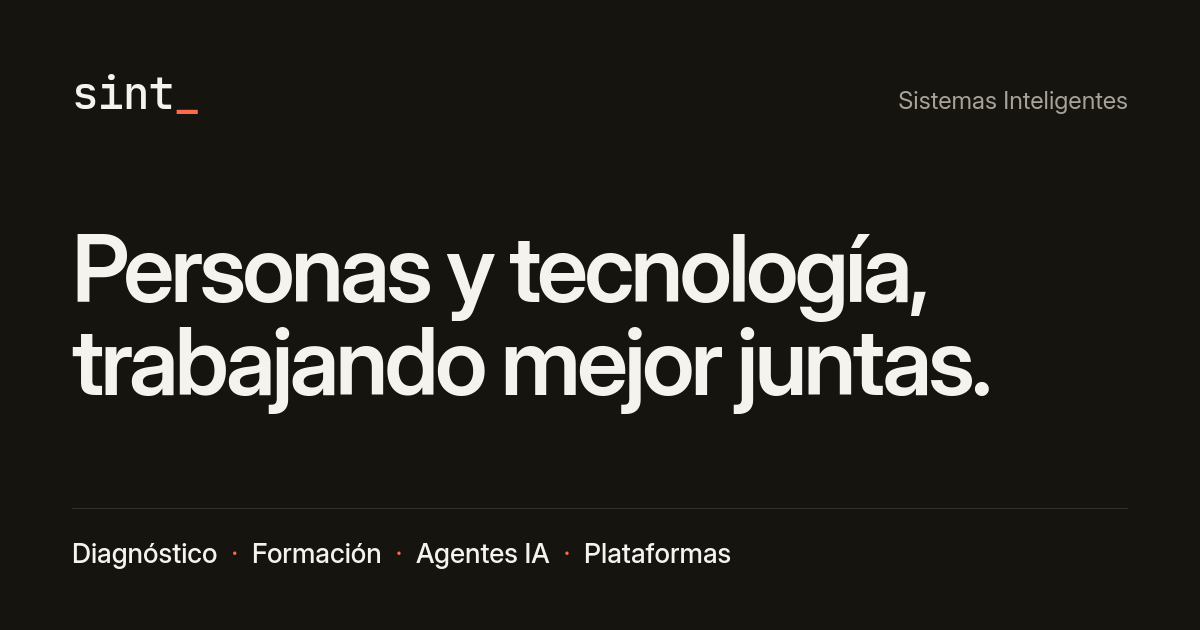
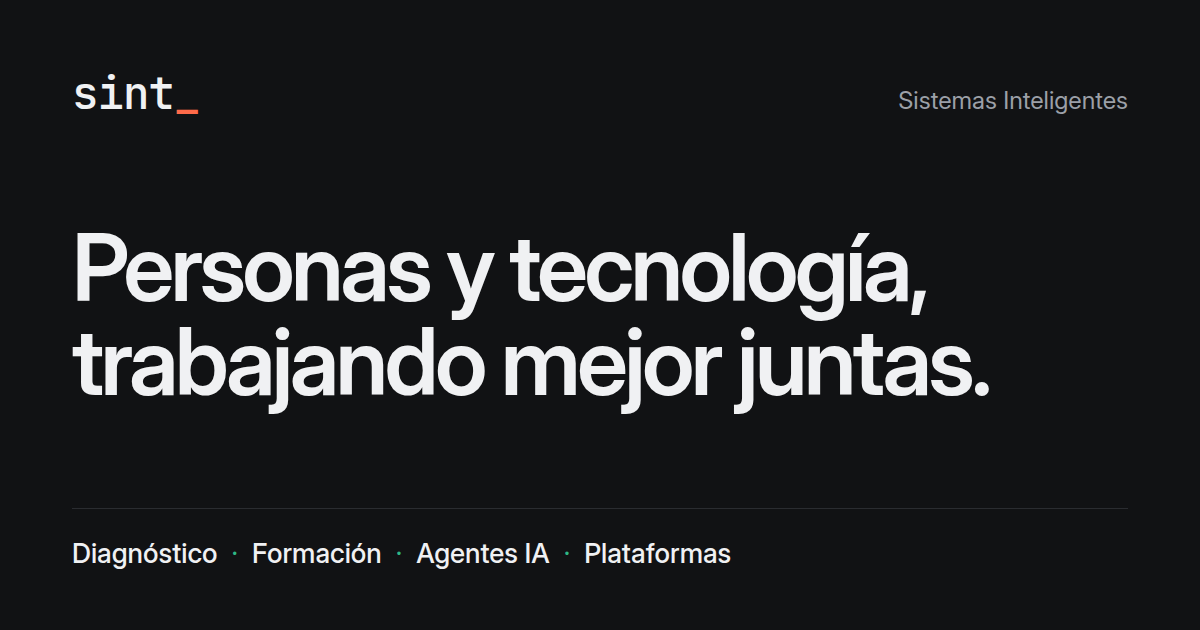
feat(seo): imagen para redes e íconos con la paleta C

diff --git a/specs/sint-v4/referencia/og.html b/specs/sint-v4/referencia/og.html
@@ -3,6 +3,7 @@
 <head>
 <meta charset="utf-8">
 <title>Imagen para redes · sint.cl v4</title>
+<!-- Paleta C (11 de noviembre de 2026): tinta #111214, puntos en verde Sint, naranja solo en el guion del logo. -->
 <!--
   Fuente de public/og-image.png (1200 x 630). Para regenerarla:
     firefox --headless --no-remote --profile "$(mktemp -d)" --window-size=1200,630 \
@@ -15,18 +16,18 @@
   body {
     display: flex; flex-direction: column; justify-content: space-between;
     padding: 64px 72px 60px;
-    background: #16140F; color: #F5F3EE;
+    background: #111214; color: #F0F1F3;
     font-family: "Inter", system-ui, sans-serif;
     -webkit-font-smoothing: antialiased;
   }
   .top { display: flex; align-items: baseline; justify-content: space-between; }
   .logo { font-family: "JetBrains Mono", monospace; font-weight: 500; font-size: 44px; letter-spacing: -0.02em; }
   .logo span { color: #FF6B4A; }
-  .name { font-size: 24px; color: #A8A39A; }
+  .name { font-size: 24px; color: #9CA0A8; }
   h1 { font-size: 92px; line-height: 1.02; font-weight: 600; letter-spacing: -0.04em; max-width: 1000px; }
-  .lines { display: flex; gap: 14px; border-top: 1px solid #34312B; padding-top: 28px; font-size: 27px; color: #A8A39A; }
-  .lines b { font-weight: 500; color: #F5F3EE; }
-  .lines i { font-style: normal; color: #FF6B4A; }
+  .lines { display: flex; gap: 14px; border-top: 1px solid #2A2C30; padding-top: 28px; font-size: 27px; color: #9CA0A8; }
+  .lines b { font-weight: 500; color: #F0F1F3; }
+  .lines i { font-style: normal; color: #2EB886; }
 </style>
 </head>
 <body>

diff --git a/AGENTS.md b/AGENTS.md
@@ -130,7 +130,7 @@ Carpetas en el equipo de José: `~/Escritorio/SINT/SINT-v4` (worktree del branch
 
 ## Sistema de Diseño
 
-> **El sistema visual vigente es el de `specs/sint-v4/design.md`** (tema claro "papel y tinta"):
+> **El sistema visual vigente es el de `specs/sint-v4/design.md`** (tema claro; desde el 11 de noviembre de 2026, paleta C "blanco y verde"):
 > tokens como variables CSS en `app/globals.css`, expuestos en `tailwind.config.ts`. En los
 > componentes no se escriben colores en hexadecimal. La tabla de abajo es la paleta v2, solo historia.
 
@@ -152,7 +152,7 @@ Fuentes: Inter (cuerpo) · JetBrains Mono (logo, código)
 
 ```
 app/
-├── layout.tsx              fuentes, metadatos, themeColor #FAF9F6
+├── layout.tsx              fuentes, metadatos, themeColor #FFFFFF
 ├── page.tsx                orden de las secciones + JSON-LD
 ├── globals.css             tokens y clases de la maqueta
 ├── icon.svg · favicon.ico · apple-icon.png
